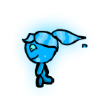
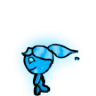
뮤직 주석처리 및 캐릭터 크기 조정(85)&점프 오류 완료

Changed region(s): [[0.2188, 0.2188, 0.9375, 1.0]]

diff --git a/fbwg game/src/fbwg_1/Music.java b/fbwg game/src/fbwg_1/Music.java
@@ -1,55 +1,55 @@
-package fbwg_1;
-
-import java.io.BufferedInputStream;
-import java.io.File;
-import java.io.FileInputStream;
-
-import javazoom.jl.player.Player;
-
-public class Music extends Thread {
-	private Player player;
-	private boolean isLoop;
-	private File file;
-	private FileInputStream fis;
-	private BufferedInputStream bis;
-	
-	public Music(String name, boolean isLoop) {
-		try {
-			this.isLoop = isLoop;
-			file = new File(Main.class.getResource("../music/" + name).toURI());
-			fis = new FileInputStream(file);
-			bis = new BufferedInputStream(fis);
-			player = new Player(bis);
-		} catch (Exception e) {
-			
-		}
-	}
-	
-	public void close() {
-		isLoop = false;
-		player.close();
-		this.interrupt();
-	}
-	
-	@Override
-	public void run() {
-		try {
-			do {
-				player.play();
-				fis = new FileInputStream(file);
-				bis = new BufferedInputStream(fis);
-				player = new Player(bis);
-			} while(isLoop);
-		} catch (Exception e) {
-			
-		}
-	}
-	public int getTime() {
-		if(player ==null)
-			return 0;
-		return player.getPosition();
-	}
-
-}
+//package fbwg_1;
+//
+//import java.io.BufferedInputStream;
+//import java.io.File;
+//import java.io.FileInputStream;
+//
+//import javazoom.jl.player.Player;
+//
+//public class Music extends Thread {
+//	private Player player;
+//	private boolean isLoop;
+//	private File file;
+//	private FileInputStream fis;
+//	private BufferedInputStream bis;
+//	
+//	public Music(String name, boolean isLoop) {
+//		try {
+//			this.isLoop = isLoop;
+//			file = new File(Main.class.getResource("../music/" + name).toURI());
+//			fis = new FileInputStream(file);
+//			bis = new BufferedInputStream(fis);
+//			player = new Player(bis);
+//		} catch (Exception e) {
+//			
+//		}
+//	}
+//	
+//	public void close() {
+//		isLoop = false;
+//		player.close();
+//		this.interrupt();
+//	}
+//	
+//	@Override
+//	public void run() {
+//		try {
+//			do {
+//				player.play();
+//				fis = new FileInputStream(file);
+//				bis = new BufferedInputStream(fis);
+//				player = new Player(bis);
+//			} while(isLoop);
+//		} catch (Exception e) {
+//			
+//		}
+//	}
+//	public int getTime() {
+//		if(player ==null)
+//			return 0;
+//		return player.getPosition();
+//	}
+//
+//}
 
 

diff --git a/fbwg game/src/fbwg_1/Fbwg.java b/fbwg game/src/fbwg_1/Fbwg.java
@@ -48,7 +48,7 @@ public class Fbwg  extends JFrame{
    private JButton playBt = new JButton(play);
    private JButton backBt = new JButton("back");
    private JButton choiceBt = new JButton("choice");
-   public Music introMusic = new Music("Menu Music.mp3", true);
+   //public Music introMusic = new Music("Menu Music.mp3", true);
    public Fbwg() {
       setTitle("Fireboy and Watergirl");
       setSize(Main.SCREEN_WIDTH, Main.SCREEN_HEIGHT);
@@ -65,7 +65,7 @@ public class Fbwg  extends JFrame{
       choice();
       
 //      Music introMusic = new Music("Menu Music.mp3", true);
-      introMusic.start();
+      //introMusic.start();
    }
 
    public void setpanel() {
@@ -142,7 +142,7 @@ public class Fbwg  extends JFrame{
 //				next=true;
 		    	 setVisible(false);
 		    	 bal=new Level1();
-		    	 introMusic.close();
+		    	 //introMusic.close();
 		     }
 		  });
    }

diff --git a/fbwg game/src/fbwg_1/CharMove.java b/fbwg game/src/fbwg_1/CharMove.java
@@ -226,10 +226,9 @@ public class CharMove {
 		up = true;
 		new Thread(()->{
 			for(int i =0; i<60/JUMPSPEED; i++) {
-				pos_X+=JUMPSPEED;
 				pos_Y-=JUMPSPEED;
 				try {
-					Thread.sleep(50);
+					Thread.sleep(15);
 				}catch(InterruptedException e) {
 					e.printStackTrace();
 				}
@@ -264,10 +263,10 @@ public class CharMove {
 		down = true;
 		new Thread(()->{
 			for(int i =0; i<60/JUMPSPEED; i++) {
-				pos_X+=JUMPSPEED;
+				
 				pos_Y+=JUMPSPEED;
 				try {
-					Thread.sleep(50);
+					Thread.sleep(15);
 				}catch(InterruptedException e) {
 					e.printStackTrace();
 				}
